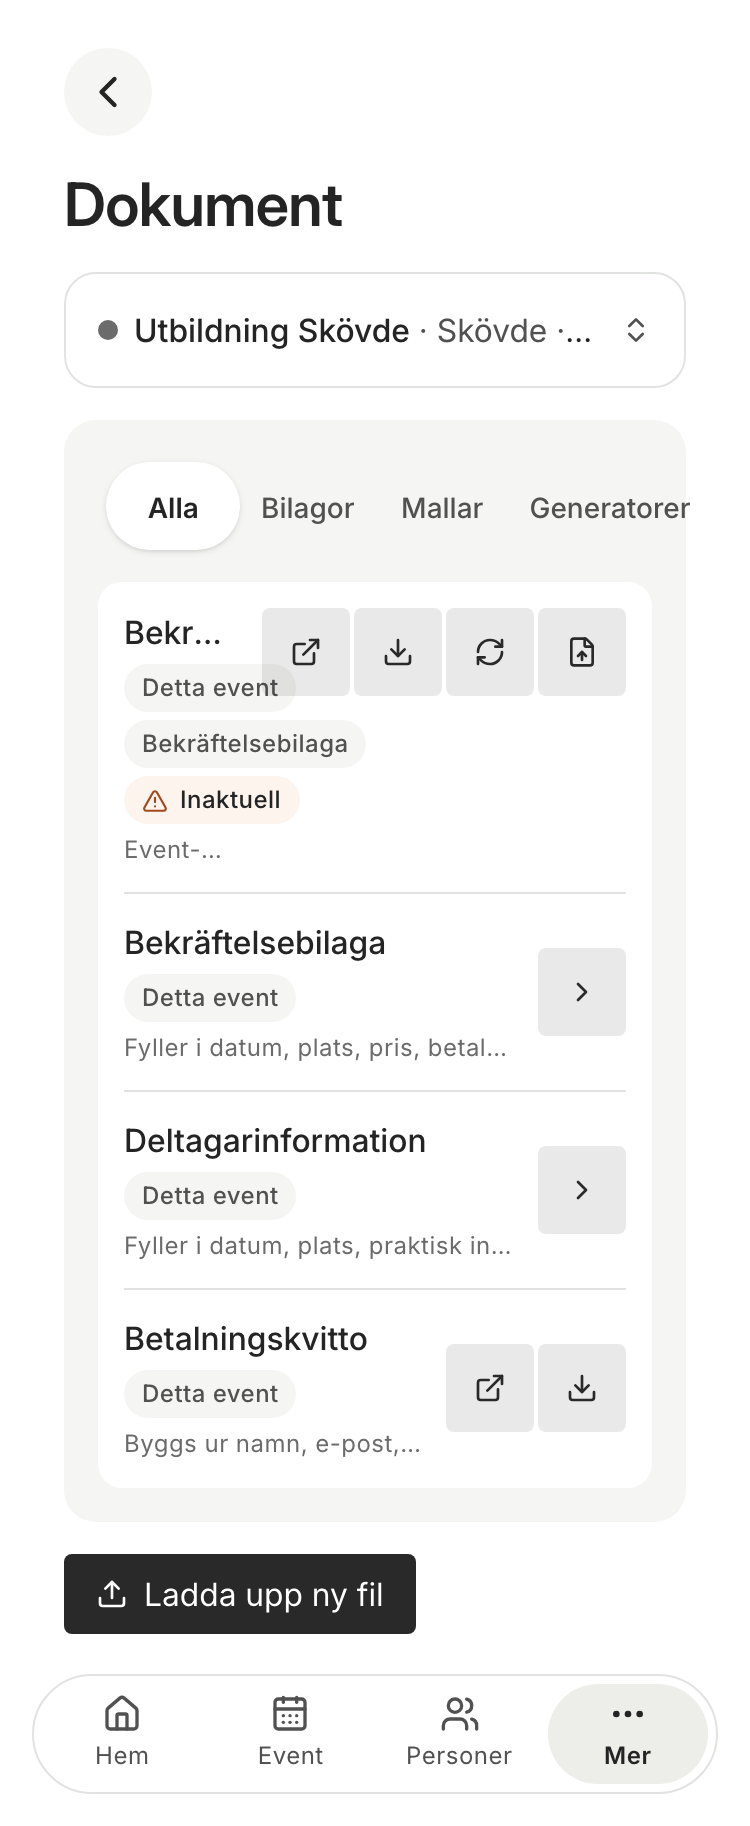
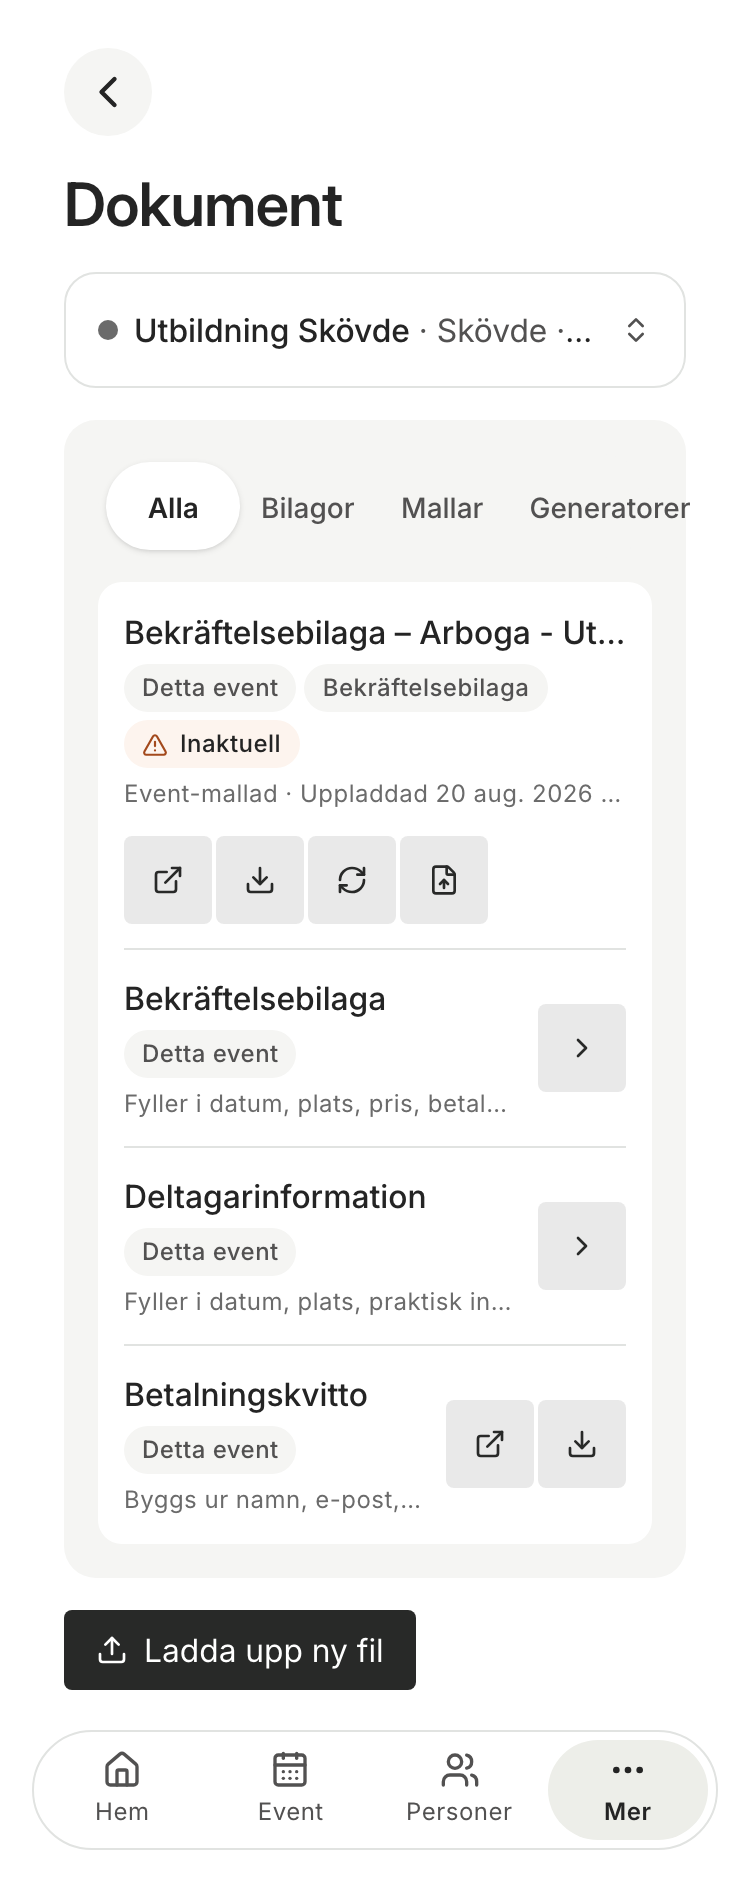
fix(dokument): [TASK-309.20] retagning av s108-generering-facit på orkestrerarorder
Retar s108-generering/facit-dokumentlista-inaktuell-rad-mobil.png efter
TASK-309.20s fix (samma commit-serie, PR #1977). Bilden visade defekt 1
("Bekr…"-trunkering) konkret men låg utanför kortets AC #4-uttryckliga
scope (bara s108-dokumentytan namngavs där) — retagen på orkestrerarens
explicita tilläggsorder, eftersom Marcus stämplar båda manifesten
samtidigt och bilden annars hade frusit defekten.

Samma rigg/metod som skiva 9 (STALE-kallhash-mock, samma som
tests/acceptance/dokument-event-mallad-inaktuell.acceptance.test.ts).
Verifierat ändrad (git diff --stat: binärt diff, 750×1826 → 750×1882 px).
facit.json "not"-fält uppdaterat på samma sätt som s108-dokumentytans;
"godkand" orört (null). check:docs kört på nytt: exit 0, 14/14 gröna.

Ingen ny AC bockas — bokfört i kortets notes som orkestrerarens
tilläggsbeslut, inte en agent-initierad scope-utvidgning.

diff --git a/backlog/tasks/task-309.20 - Dokumentytan-vid-375-px-filnamn-trunkeras-och-ikonknappar-ligger-över-räckviddsbadgen.md b/backlog/tasks/task-309.20 - Dokumentytan-vid-375-px-filnamn-trunkeras-och-ikonknappar-ligger-över-räckviddsbadgen.md
@@ -6,7 +6,7 @@ title: >-
 status: To Do
 assignee: []
 created_date: '2026-08-24 17:54'
-updated_date: '2026-08-26 02:51'
+updated_date: '2026-08-26 03:20'
 labels:
   - ready-for-agent
 dependencies: []
@@ -72,4 +72,19 @@ rigg/metod (AC #4). facit.json "not"-falt uppdaterat, "godkand" ororg.
 OBS: syskonkatalogen s108-generering/facit-dokumentlista-inaktuell-rad-mobil.png
 visar defekt 1 konkret men ar INTE omtagen av denna skiva - utanfor AC #4:s
 uttryckliga scope (bara s108-dokumentytan namndes). Flaggat i Final Summary.
+
+TILLÄGG 2026-08-26 (orkestrerarorder, samma PR #1977 efter första pushen):
+s108-generering/facit-dokumentlista-inaktuell-rad-mobil.png — bilden som
+ovanstående OBS flaggade som konkret visande defekt 1 men utanför AC #4:s
+scope — är NU OMTAGEN på orkestrerarens explicita tilläggsorder, eftersom
+Marcus stämplar BÅDA manifesten samtidigt och den annars hade frusit
+defekten. Samma rigg/metod som skiva 9 (STALE-kallhash-mock, samma som
+tests/acceptance/dokument-event-mallad-inaktuell.acceptance.test.ts).
+Verifierat ändrad: git diff --stat visar binärt diff, sha256 skiljer sig,
+750×1826 → 750×1882 px. facit.json (s108-generering) "not"-fält uppdaterat
+på samma sätt som s108-dokumentytans; "godkand" orört (null). check:docs
+kört på nytt efter ändringen: exit 0, 14/14 gröna. Ingen ny AC bockas för
+detta — kortets AC #4 nämnde bara s108-dokumentytan; denna omtagning är
+bokförd här som orkestrerarens explicita tilläggsbeslut, inte en
+scope-utvidgning jag gjorde på eget bevåg.
 <!-- SECTION:NOTES:END -->
